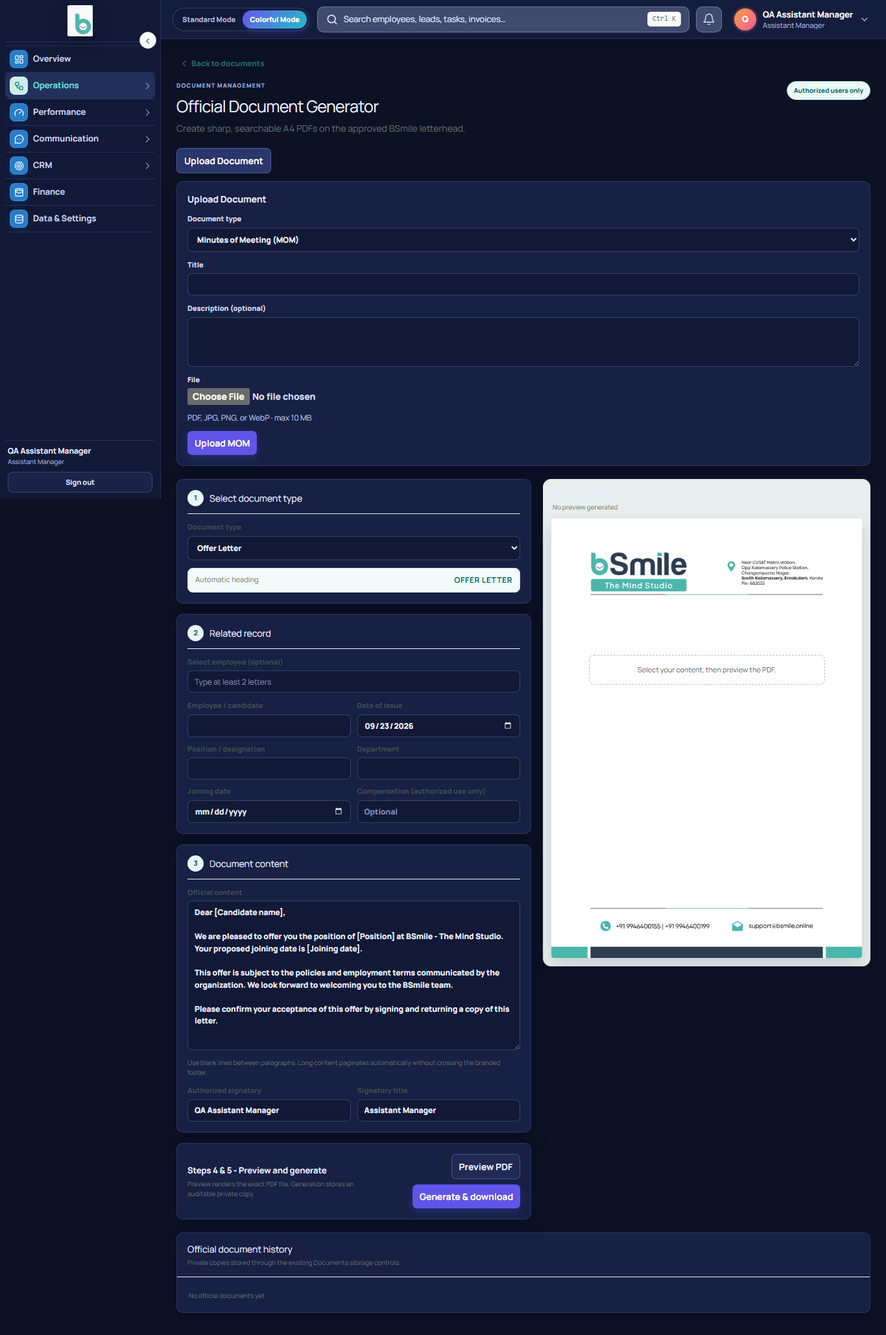
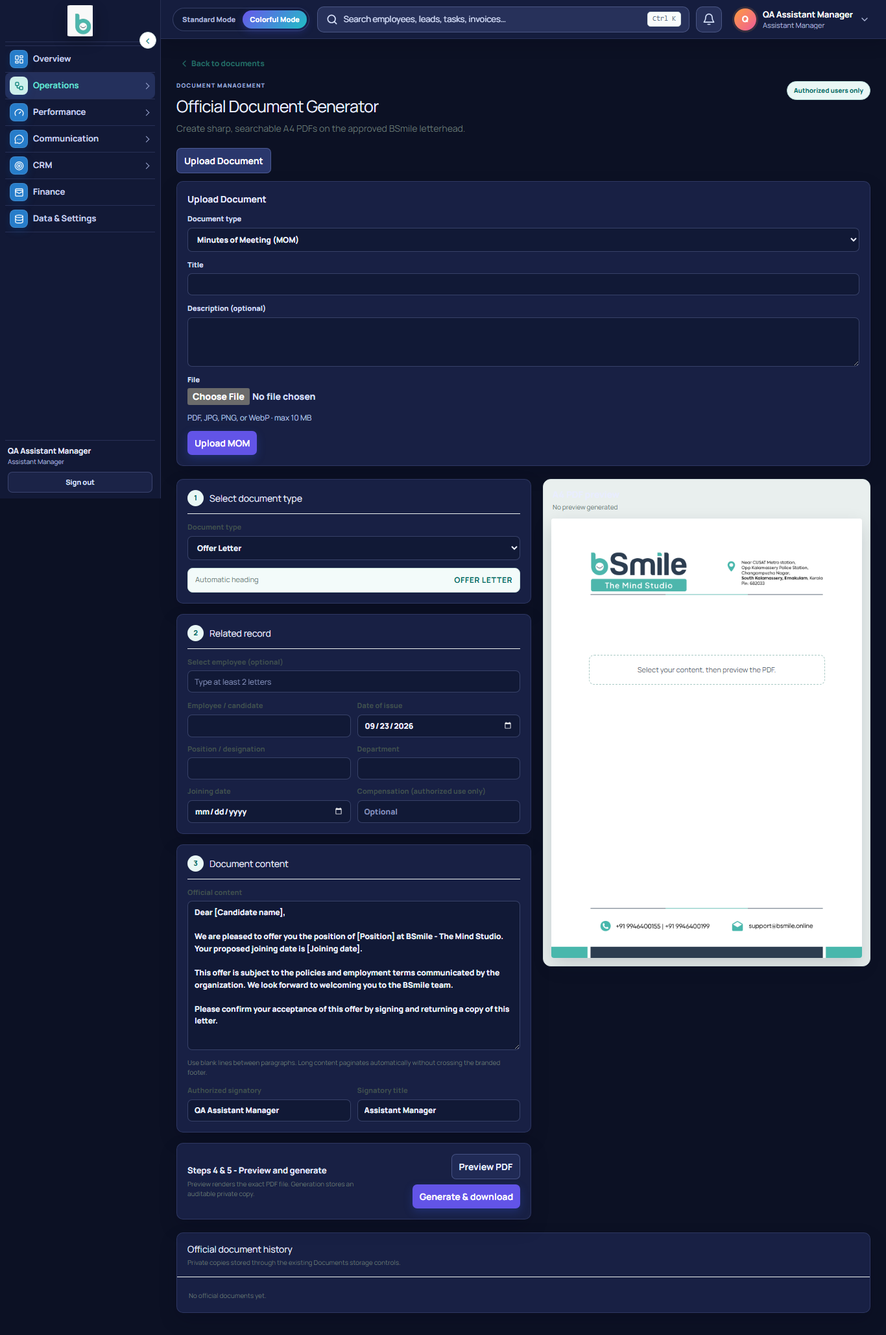
fix(documents): restrict MOM upload to explicit owner-approved grants

Changed region(s): [[0.3382, 0.0, 0.8302, 0.0311]]

diff --git a/src/lib/official-mom-rls.test.ts b/src/lib/official-mom-rls.test.ts
@@ -37,6 +37,9 @@ beforeAll(async () => {
     create function storage.filename(text) returns text language sql immutable as $$ select (string_to_array($1,'/'))[array_length(string_to_array($1,'/'),1)] $$;
     create function storage.extension(text) returns text language sql immutable as $$ select reverse(split_part(reverse($1),'.',1)) $$;
     create function storage.allow_only_operation(text) returns boolean language sql stable as $$ select coalesce(current_setting('storage.operation',true),'') = $1 $$;
+    create table public.profiles(id uuid primary key, status text);
+    create table public.permissions(id uuid primary key default gen_random_uuid(), code text unique, description text);
+    create table public.user_permission_grants(profile_id uuid, permission_id uuid, reason text, starts_at timestamptz default now(), expires_at timestamptz, revoked_at timestamptz);
     create table public.test_permissions(profile_id uuid, code text);
     create function public.has_permission(permission_code text) returns boolean language sql stable as $$ select exists(select 1 from public.test_permissions where profile_id=auth.uid() and code=permission_code) $$;
     create function public.current_role() returns text language sql stable as $$ select 'staff'::text $$;
@@ -66,22 +69,70 @@ beforeAll(async () => {
   if (!generationPolicies?.length) throw Error('Missing baseline generation policies');
   for (const sql of generationPolicies) await db.exec(sql);
   await db.exec(source('20260923105301_official_mom_upload.sql'));
+  await db.exec(source('20260923114731_official_mom_explicit_access.sql'));
+  await db.exec(`insert into public.profiles values ('${creator}','active'),('${manager}','active'),('${otherCreator}','active'),('${employee}','active');`);
 }, 60000);
 beforeEach(async () => {
   await db.exec('reset role; truncate public.documents,public.document_shares,public.audit_logs,storage.objects');
   await db.query("select set_config('storage.operation','',false)");
+  await db.exec(`truncate public.user_permission_grants;
+    update public.profiles set status='active';
+    insert into public.user_permission_grants(profile_id,permission_id)
+    select profile.id,permission.id from public.profiles profile cross join public.permissions permission
+    where profile.id in ('${creator}','${manager}') and permission.code='documents.mom.upload';`);
   await asUser(creator);
 });
 afterAll(async () => { await db?.close(); });
 
 describe('MOM PostgreSQL authorization', () => {
-  it('allows generation-only MOM upload and INSERT RETURNING without manager grants', async () => {
+  it('blocks another generation-only user without an explicit MOM grant', async () => {
+    await asUser(otherCreator);
+    await expect(object(otherCreator)).rejects.toThrow(/row-level security/);
+    await expect(record({ uploaded_by: otherCreator, storage_path: path(otherCreator) })).rejects.toThrow(/row-level security/);
+    // Existing generation permission and its Storage path remain available.
+    await object(otherCreator, `company/${otherCreator}/official/letter.pdf`);
+  });
+  it('blocks managers without a MOM grant despite permissive baseline policies', async () => {
+    await db.exec('reset role');
+    await db.query('delete from public.user_permission_grants where profile_id=$1', [manager]);
+    await asUser(manager);
+    await expect(object(manager)).rejects.toThrow(/row-level security/);
+    await expect(record({ uploaded_by: manager, storage_path: path(manager) })).rejects.toThrow(/row-level security/);
+    await object(manager, `company/${manager}/official/policy.pdf`);
+    await object(manager, `${manager}/request/mom/personal.pdf`);
+    await record({ uploaded_by: manager, storage_path: `company/${manager}/official/policy.pdf`, document_type: 'policy', category: 'Policy' });
+  });
+  it.each(['revoked_at=now()', "expires_at=now()-interval '1 day'", "starts_at=now()+interval '1 day'"])(
+    'rejects a grant with %s immediately', async mutation => {
+      await db.exec('reset role');
+      await db.exec(`update public.user_permission_grants set ${mutation}`);
+      await asUser(creator);
+      await expect(object()).rejects.toThrow(/row-level security/);
+      await expect(record()).rejects.toThrow(/row-level security/);
+    });
+  it('rejects inactive accounts even with an explicit grant', async () => {
+    await db.exec("reset role; update public.profiles set status='inactive'");
+    await asUser(creator);
+    await expect(object()).rejects.toThrow(/row-level security/);
+  });
+  it('does not let implicit all-permission administrators bypass explicit MOM grants', async () => {
+    await db.exec('reset role');
+    const original = (await db.query<{ definition: string }>("select pg_get_functiondef('public.has_permission(text)'::regprocedure) as definition")).rows[0].definition;
+    try {
+      await db.exec('create or replace function public.has_permission(permission_code text) returns boolean language sql stable as $$ select true $$');
+      await asUser(employee);
+      expect((await db.query('select public.official_mom_upload_allowed() as allowed')).rows).toEqual([{ allowed: false }]);
+      await expect(object(employee)).rejects.toThrow(/row-level security/);
+      await expect(record({ uploaded_by: employee, storage_path: path(employee) })).rejects.toThrow(/row-level security/);
+    } finally { await db.exec('reset role'); await db.exec(original); }
+  });
+  it('allows explicitly approved generation-only MOM upload without manager grants', async () => {
     expect((await object()).rows).toHaveLength(1);
     expect((await record()).rows).toHaveLength(1);
     expect((await db.query('select * from public.documents')).rows).toHaveLength(1);
     expect((await db.query("select public.has_permission('documents.manage') as allowed")).rows).toEqual([{ allowed: false }]);
   });
-  it('retains existing manager upload and read access', async () => {
+  it('allows an explicitly approved manager upload and existing read access', async () => {
     await record(); await asUser(manager);
     expect((await db.query('select * from public.documents')).rows).toHaveLength(1);
     await object(manager); await record({ uploaded_by: manager, storage_path: path(manager) });

diff --git a/src/lib/official-mom-upload.test.ts b/src/lib/official-mom-upload.test.ts
@@ -16,7 +16,7 @@ function request(overrides: Record<string, string | File | undefined> = {}) {
   return new Request('http://localhost/api/documents/official/upload', { method: 'POST', headers: { 'Content-Type': 'application/json' }, body: JSON.stringify(fields) });
 }
 function permissions(codes: string[]) {
-  state.db.rpc = vi.fn(async (_: string, { permission_code }: { permission_code: string }) => ({ data: codes.includes(permission_code) }));
+  state.db.rpc = vi.fn(async (name: string, args?: { permission_code: string }) => ({ data: codes.includes(name === 'official_mom_upload_allowed' ? 'documents.mom.upload' : args!.permission_code) }));
 }
 
 beforeEach(() => {
@@ -24,12 +24,14 @@ beforeEach(() => {
   insert = vi.fn(() => ({ select: () => ({ single: async () => ({ data: { id: 'saved' }, error: null }) }) }));
   const lookup: any = { eq: () => lookup, maybeSingle: async () => ({ data: null, error: null }) };
   state.db = { auth: { getUser: async () => ({ data: { user: { id: 'uploader' } } }) }, storage: { from: vi.fn(() => storage) }, from: vi.fn(() => ({ insert, select: () => lookup })) };
-  permissions(['documents.official.generate']);
+  permissions(['documents.official.generate', 'documents.mom.upload']);
 });
 
 describe('MOM upload authorization and endpoint', () => {
-  it.each(['documents.manage', 'documents.employee.manage', 'documents.official.generate'])('inherits %s without granting manager access', async code => {
+  it.each(['documents.manage', 'documents.employee.manage', 'documents.official.generate'])('requires an explicit MOM grant alongside %s', async code => {
     permissions([code]);
+    expect((await POST(request())).status).toBe(403);
+    permissions([code, 'documents.mom.upload']);
     const access = await officialDocumentAccess(state.db);
     expect(access.canUploadMom).toBe(true);
     expect(access.manager).toBe(code !== 'documents.official.generate');

diff --git a/src/lib/official-document-creation-e5.test.ts b/src/lib/official-document-creation-e5.test.ts
@@ -17,11 +17,13 @@ describe('E5 operational official-document creation correction', () => {
   });
 
   it('limits the creator to operational types while managers keep the existing catalogue', async () => {
-    const operational = await officialDocumentAccess({ rpc: async (_: string, { permission_code }: { permission_code: string }) => ({ data: permission_code === 'documents.official.generate' }) });
+    const operational = await officialDocumentAccess({ rpc: async (_: string, { permission_code }: { permission_code?: string } = {}) => ({ data: permission_code === 'documents.official.generate' }) });
+    expect(operational.canUploadMom).toBe(false);
     expect(operational.allowedTypes).toEqual(operationalOfficialDocumentTypes);
     expect(operational.allowedTypes).toContain('offer_letter');
     for (const type of ['salary_slip', 'payment_statement', 'invoice', 'performance_report', 'policy']) expect(operational.allowedTypes).not.toContain(type);
-    const manager = await officialDocumentAccess({ rpc: async (_: string, { permission_code }: { permission_code: string }) => ({ data: permission_code === 'documents.manage' }) });
+    const manager = await officialDocumentAccess({ rpc: async (_: string, { permission_code }: { permission_code?: string } = {}) => ({ data: permission_code === 'documents.manage' }) });
+    expect(manager.canUploadMom).toBe(false);
     expect(manager.allowedTypes.length).toBeGreaterThan(operational.allowedTypes.length);
     expect(manager.allowedTypes).toContain('salary_slip');
   });

diff --git a/src/lib/official-document-access.ts b/src/lib/official-document-access.ts
@@ -12,11 +12,13 @@ export async function officialDocumentAccess(db: any) {
   const checks = await Promise.all(permissions.map((permission_code) => db.rpc('has_permission', { permission_code })));
   const manager = checks.slice(0, officialDocumentPermissions.length).some((result) => result.data === true);
   const operational = checks[officialDocumentPermissions.length].data === true;
+  // Explicit MOM grants only; has_permission alone has a super-admin bypass.
+  const mom = await db.rpc('official_mom_upload_allowed');
   return {
     manager,
     operational,
     // A MOM-only capability; this does not confer general upload/manage access.
-    canUploadMom: manager || operational,
+    canUploadMom: !mom.error && mom.data === true,
     allowedTypes: manager
       ? officialDocumentTypes.map((type) => type.key)
       : operational ? [...operationalOfficialDocumentTypes] : [],

diff --git a/docs/mom-upload-audit.md b/docs/mom-upload-audit.md
@@ -1,110 +1,98 @@
-# MOM upload — implementation and verification
+# MOM upload — final owner scope and verification
 
-## Baseline and delivery
+## Delivery and baseline
 
-- Baseline: `ab00044cb28a94599589a434cb47351dd3aa169c`.
-- Verified against fetched `origin/production-readiness`, live `/api/version`, and Vercel Production deployment `dpl_H56GZZm5K1EdMTY26VU6gsLBWgq5` on 2026-09-23, again immediately before implementation.
-- Isolated branch: `codex/bs-official-documents-mom-upload`.
+- Branch: `codex/bs-official-documents-mom-upload`.
 - Worktree: `C:/Users/User/.codex/worktrees/bs-official-documents-mom-upload/Bsmile`.
-- Production database, Storage, permissions, application deployment, and `production-readiness` checkout were not modified. Production database access was SELECT-only.
+- Original verified Production baseline: `ab00044cb28a94599589a434cb47351dd3aa169c`; Vercel deployment `dpl_H56GZZm5K1EdMTY26VU6gsLBWgq5`.
+- Production database access was SELECT-only. No Production migration, permission grant, Storage write, application deployment, or integration-branch change was performed.
+- Final commit SHA is supplied in the delivery response.
+
+## Identity audit: three unique authorized active accounts
+
+The final owner instruction supersedes the earlier inherited-access design.
+
+Read-only Production queries on 2026-09-23, including normalized designation spelling variants and all account statuses, confirm **Diya Anthikat IS the active Assistant Manager account** in Administration. There is no separate active Assistant Manager. An older Diya account is inactive and receives nothing.
+
+| Owner-intended account | Verified designation | Release authorization |
+| --- | --- | --- |
+| General Manager | General Manager | One explicit MOM grant |
+| Director | Director | One explicit MOM grant |
+| Diya Anthikat / Assistant Manager | Assistant Manager | One explicit MOM grant |
+| Chairman | Chairman (uses the same director role code) | No MOM upload grant |
+| Other managers, generators, administrators, employees | Any | Blocked without separately approved explicit MOM grant |
+| Older inactive Diya / GM / Chairman accounts | Inactive | Blocked |
+
+**Unique authorized count: 3.** No fourth assignment was manufactured.
+
+[Production read-only identity query](https://supabase.com/dashboard/project/ksmqzxncdvuxiabypjth/sql/b38bbebb-295d-413b-88e5-20c45af793d0)
 
 ## Exact permission model
 
-Existing permissions: `documents.manage`, `documents.employee.manage`, `documents.official.generate`.
+`documents.mom.upload` is stored in the existing permissions and user_permission_grants architecture. Only a current, unrevoked direct grant for an active profile authorizes MOM upload. Start time and expiry are enforced on each check.
 
-`officialDocumentAccess().canUploadMom` and the SECURITY INVOKER database helper `official_mom_upload_allowed()` derive the MOM-only capability from those existing effective permissions. No role/user grants are copied, no names or emails are embedded, and no new broad permission is granted. A separate permission row is unnecessary: eligibility follows the existing permission architecture, including designation bundles, direct grants, revocations, and inactive-account checks.
+The release migration seeds only the three audited stable Production profile IDs. IDs appear only as migration data, never as runtime application allowlists. No names/emails are hard-coded in authorization. New users with the same role/designation do not inherit a grant. No role or designation bundle receives this permission.
 
-Managers retain existing document access. Generation-only users may insert/read their own uploaded MOM records and own MOM files only. They gain no general upload, document administration, saved-document update/delete, sharing, or directory-listing permission. The only new DELETE policy removes unreferenced files after failed uploads; it rejects deletion once a document references the object.
+`official_mom_upload_allowed()` is a narrowly scoped SECURITY DEFINER current-user boolean lookup because grant rows are security-admin-only. It has no subject argument, returns no private data, pins an empty search path, and is executable only by authenticated users. It deliberately bypasses neither explicit-grant requirements nor active-account checks. Unlike generic has_permission, it does not implicitly authorize super-admins.
 
-Existing manager and explicit document-share visibility policies are unchanged. No default share-with-everyone row is created. Ordinary employees cannot upload MOM or read unshared MOM; pre-existing explicit sharing still works.
+The UI, finalize API, metadata RLS, and Storage RLS use the same helper. Restrictive metadata INSERT validation overrides permissive manager policies for MOM. Restrictive Storage INSERT/UPDATE policies prevent general company-file permissions from bypassing the MOM namespace boundary.
 
-## Production authorized population audit
+General document upload/manage/delete permissions, admin shell, HR, finance, CRM and clinical access remain unchanged. Existing Official Documents generation and viewing/sharing rules remain unchanged. Explicitly approved generation-only users gain no general management or saved-document deletion rights. Failed-upload cleanup is limited to their own unreferenced MOM object.
 
-Read-only `has_permission(code, profile.id)` checks across ALL production profiles/statuses found **four eligible users**, not the anticipated five plus GM/Director. No account was activated or granted access to match the expectation.
+## Implementation
 
-| Existing role | Designation | Count | documents.manage | documents.employee.manage | documents.official.generate |
-| --- | --- | --- | --- | --- | --- |
-| director | Chairman | 1 | true | false | false |
-| director | Director | 1 | true | false | false |
-| general_manager | General Manager | 1 | true | true | false |
-| staff | Assistant Manager | 1 | false | false | true |
+- A collapsible Upload Document form on both existing Official Documents pages offers Minutes of Meeting (MOM), separately from PDF generation.
+- Canonical type `minutes_of_meeting`, category `Official:Minutes of Meeting (MOM)`, source `uploaded`.
+- Existing metadata columns store title, optional description, filename, MIME, size, authenticated uploader and creation time.
+- Private `employee-documents` bucket; own `company/<uid>/mom/<UUID>-<filename>` path; no upsert.
+- Direct browser-to-Storage upload preserves the existing 10 MiB limit. The authenticated JSON finalize endpoint re-reads the object, validates actual size and declared MIME, derives uploader server-side and is idempotent per Storage path.
+- Existing supported files: PDF, JPEG/JPG, PNG, WebP; nonempty, at most 10 MiB, safe filename and matching MIME/extension. DOC/DOCX remain unsupported.
+- History shows uploaded MOM; signed view/download uses existing 60-second URLs and existing visibility. No new shared audience.
+- Upload audit records authenticated actor. MOM uploader, type, source and Storage path cannot be reassigned even by a document manager; existing title edits remain allowed.
+- Generated catalogue, Meeting Notes, PDF heading engine and Operational Documents catalogue remain unchanged.
+- No existing filter/search on the Official Documents history page; none added. Existing 20-row limit retained.
+- Colorful Mode contrast adjustment is scoped to the new form.
 
-All four are active. Psychologist, Intern, and Sales Coordinator lack all three permissions. The all-status census found no additional eligible inactive/system accounts and no users possessing only `documents.employee.view`. The authorized population remains dynamic; equivalent existing permissions confer MOM automatically.
+## Migrations and release
 
-Production audit query: https://supabase.com/dashboard/project/ksmqzxncdvuxiabypjth/sql/85223ce1-c3a8-42bd-9cec-3c0af7ed59e1
+Apply BOTH candidate migrations before deploying the feature:
 
-QA equivalents tested: Director, General Manager, Assistant Manager, Super Admin, and an unauthorized ordinary employee. Chairman uses the same actual role and permission combination as the Director equivalent; no name-specific fixture is required by the implementation.
+1. `20260923105301_official_mom_upload.sql`: MOM infrastructure, validation, six scoped policies, audit and identity triggers.
+2. `20260923114731_official_mom_explicit_access.sql`: supersedes inherited eligibility with explicit MOM grants; seeds the three audited active Production identities; adds restrictive Storage INSERT/UPDATE policies.
 
-## Architecture and implementation
+Both definitions were applied to **QA `enylrvmjgbntkrgpqsfe` only**. The Production grant IDs do not match QA accounts and therefore create no QA grants. The browser harness temporarily grants only its three approved equivalents, then cleans those grants. It does not select all QA users by designation.
 
-- Official Documents uses `/admin/documents/generate` and `/employee/documents/generate`, sharing `official-document-generator.tsx`.
-- The baseline Official Documents page generated PDFs but had no upload flow. A small collapsible Upload Document form now offers `Minutes of Meeting (MOM)` separately from generation.
-- `/admin/documents` remains the separate Operational Documents form. Its Policy/Form/Notice/HR/Finance/Other catalogue and sharing workflow are unchanged.
-- Canonical MOM type: `minutes_of_meeting`; category: `Official:Minutes of Meeting (MOM)`; source: `uploaded`, never `official_generated`.
-- Existing metadata in `public.documents`: title, optional description, category/type, original filename, MIME, size, authenticated uploader, existing creation timestamp. No new metadata columns.
-- Private bucket: `employee-documents`. Safe path: `company/<authenticated user id>/mom/<UUID>-<filename>`. Uploads use `upsert: false`; a MOM-only unique index prevents duplicate metadata for one Storage path.
-- Browser sends bytes directly to private Supabase Storage under the current session/RLS. This preserves the existing 10 MiB limit despite Vercel's 4.5 MB function-request limit. The authenticated finalize endpoint re-reads the stored object to verify actual size and declared MIME, and derives uploader identity server-side.
-- Allowed files unchanged: PDF, JPEG/JPG, PNG, WebP; nonempty, at most 10 MiB, matching MIME/extension, safe filename. DOC/DOCX remain unsupported.
-- The existing history includes uploaded MOM. Managers see their existing authorized records; generation-only users retain own-document scope. Existing 20-record history limit is unchanged.
-- View/download uses existing 60-second signed URLs. Existing generated-download auditing stays intact; MOM uploads receive an authenticated upload audit event via a non-callable protected trigger.
-- No existing type filter/search exists on this page; neither was added.
-- Generated type catalogue, PDF engine, canonical heading behavior, and Meeting Notes were not changed.
-- Colorful Mode label contrast is scoped to the new form only.
-
-## Migration
-
-`supabase/migrations/20260923105301_official_mom_upload.sql`
-
-Required for the owner's approved generation-only MOM scope, not for a type lookup. It adds one MOM-only unique index, two SECURITY INVOKER helpers, six narrowly scoped policies (including restrictive metadata/attribution validation), a protected upload-audit trigger, and a SECURITY INVOKER identity-preservation trigger. Existing policies, buckets, role/designation/user grants, and generated-document functions are not replaced.
-
-Applied through the dashboard SQL editor to **QA project `enylrvmjgbntkrgpqsfe` only**. The matching committed migration must be applied through the integration release workflow before deploying this feature to Production. No production migration was applied.
+No Production release is authorized or performed in this task. Before release, verify the three audited identities remain active and apply both migrations through the integration workflow; do not deploy the superseded first commit alone.
 
 ## Verification
 
-- Focused endpoint tests: 27 passed. Authentication/authorization, type restriction, invalid/oversized/empty files, MIME mismatch, unsafe filenames, forged metadata, foreign paths, Storage failures, duplicate finalization, and existing allowed formats.
-- PostgreSQL RLS tests: 32 passed using PGlite with the existing permissive document/Storage policies plus the actual MOM migration. Tests execute real SQL as `authenticated`, including manager access, generation-only scope, employee/cross-creator denial, existing explicit shares, restrictive attribution, unsafe/general Storage paths, no saved-object update/delete, orphan-only cleanup, no directory listing, existing generated PDFs, and audit protection.
-- Full Vitest: **204 files / 936 tests passed**.
-- TypeScript: PASS.
-- ESLint: PASS, zero errors; 25 existing warnings. New files and QA script also lint cleanly.
-- Production build: PASS, rebuilt after the scoped Colorful Mode contrast adjustment.
-- Supabase QA security advisor: zero errors; existing database warnings remain outside this task's scope.
-- Authenticated browser QA: PASS for Director, GM, Assistant Manager, and Admin. Each completed real upload, listing, reload persistence, popup creation, signed download with exact byte comparison, ordinary-employee read denial, and collision rejection.
-- Manager identity guard live checks: uploader, storage path, document type, and source changes rejected; title edits allowed; disposable record/file cleaned.
-- Assistant Manager live checks: general company upload denied; forged uploader rejected; saved MOM metadata/file deletion denied; general manage/administration permissions remain false.
-- Ordinary employee live checks: upload UI unavailable, finalize endpoint 403, direct MOM Storage upload denied, metadata and file reads denied.
-- Mobile 390×844 and desktop 1366×768: PASS in Standard and Colorful Mode, for all four QA account types. No document-width overflow or clipped form controls; upload action visible.
-- The full 10 MiB limit passed real browser upload, persistence, and download using Admin.
-- Existing generated documents: all six required types returned valid PDFs through authenticated preview; General Report also passed authenticated generate/store/signed-download with byte comparison. Single-canonical-heading engine tests passed in the full suite.
-- Existing uploaded type: Policy PNG passed authenticated Storage upload, normal document metadata insertion and exact-byte download under existing management policies; no MOM type or policy was needed for this regression.
-- All disposable MOM, generated-report, and Policy regression metadata/files were cleaned. QA audit attribution records intentionally remain as existing audit history.
-- Final live `/api/version` and fetched `origin/production-readiness` remained at the baseline SHA at 2026-09-23 11:32 UTC.
+- Endpoint/access tests: 27 passed, including denial when general manager/generation permissions exist without explicit MOM permission.
+- Real PostgreSQL RLS tests: 39 passed using PGlite with existing permissive policies and both actual migrations. Covers unapproved managers/generators, implicit all-permission admin bypass, revoked/expired/future grants, inactive accounts, attribution, cross-user access, explicit sharing, orphan cleanup and ordinary document/generation regression.
+- Full Vitest: **204 files / 943 tests passed**.
+- QA security advisor: zero errors, 138 warnings. One new warning identifies the authenticated SECURITY DEFINER eligibility helper; reviewed and intentional because it returns only the current user's authorization boolean from protected grant rows. All other warnings predate this correction.
+- TypeScript: PASS. ESLint: zero errors, 25 pre-existing warnings. Production build: PASS.
+- Authenticated browser QA: approved Director, GM and Assistant Manager equivalents; real upload, history, reload persistence, signed view/download with exact bytes, collision denial, unauthorized read denial.
+- Responsive QA: 390×844 and 1366×768, Standard and Colorful modes for each approved equivalent.
+- Full 10 MiB file upload/download tested with Director.
+- Before temporary grants, the same managers/generator are denied direct MOM Storage and metadata insertion.
+- Unapproved super-admin and ordinary employee: no MOM upload UI, finalize 403, direct Storage denied. Super-admin still generates ordinary official documents.
+- Assistant Manager retains no general upload, management, administration or saved-MOM deletion rights.
+- Six existing generated PDF preview types pass. Earlier baseline-to-candidate General Report persisted/downloaded byte regression and Policy PNG upload/download regression also passed; correction does not change those paths.
+- Disposable MOM rows/files and temporary QA grants cleaned. Audit records remain as normal audit history.
+- Committed evidence: `qa-artifacts/official-mom/`; browser harness: `scripts/qa-official-mom.mjs`.
 
-The browser harness verifies the UI's actual signing response, popup creation, and downloaded bytes rather than Chromium's internal PDF-viewer URL or DOMContentLoaded event. Cleanup uses authoritative object listing rather than potentially cached download bytes. An independent QA SQL check also confirmed zero MOM rows and zero MOM objects after the earlier run.
+## Acceptance
 
-Committed evidence is in `qa-artifacts/official-mom/`: final role/security/cleanup results, generated-document and existing-upload regression results, and four representative Assistant Manager screenshots covering both viewports/themes. All sixteen role/viewport/theme screenshots remain in the ignored local `release-evidence/mom/` directory.
-
-## Acceptance status
-
-| Required result | Status |
+| Requirement | Candidate result |
 | --- | --- |
-| Director existing access / MOM upload | YES / PASS |
-| General Manager existing access / MOM upload | YES / PASS |
-| Generation-only Assistant Manager MOM upload | PASS |
-| No general upload/manage/delete broadening | PASS |
-| Other existing manager permission combinations | PASS (unit/SQL and Admin browser fixture) |
-| Upload / list display / persistence | PASS |
-| Filter / search | NOT APPLICABLE — no existing filter/search on this page |
-| View / download | PASS |
-| Unauthorized block | PASS |
-| Existing official types / generated-document regression | PASS |
-| Mobile 390×844 / desktop 1366×768, both modes | PASS |
-| QA files cleaned | YES |
-| RLS/permissions changed | Six MOM-only policies and protected helpers/trigger; no role/user/designation permission grants |
-| Migration | `20260923105301_official_mom_upload.sql` — QA only |
-| Production modified | NO |
-
-Final SHA is supplied in the delivery response (the commit containing this report).
+| General Manager MOM upload | PASS, explicit-grant QA equivalent |
+| Director MOM upload | PASS, explicit-grant QA equivalent |
+| Diya MOM upload | PASS, Assistant Manager QA equivalent |
+| Separate Assistant Manager | Not applicable: same active account as Diya |
+| Everyone else without owner-approved grant | BLOCKED |
+| General Official Documents functionality | UNCHANGED; regression PASS |
+| Broad permission expansion | NONE |
+| Unique planned Production grants | 3 |
+| Production changed | NO |
 
 **OFFICIAL DOCUMENT MOM UPLOAD COMPLETE — PENDING INTEGRATION**
-
-Population discrepancy remains explicit: production currently has four qualifying users, not seven. No new general access was granted to manufacture the expected count.
